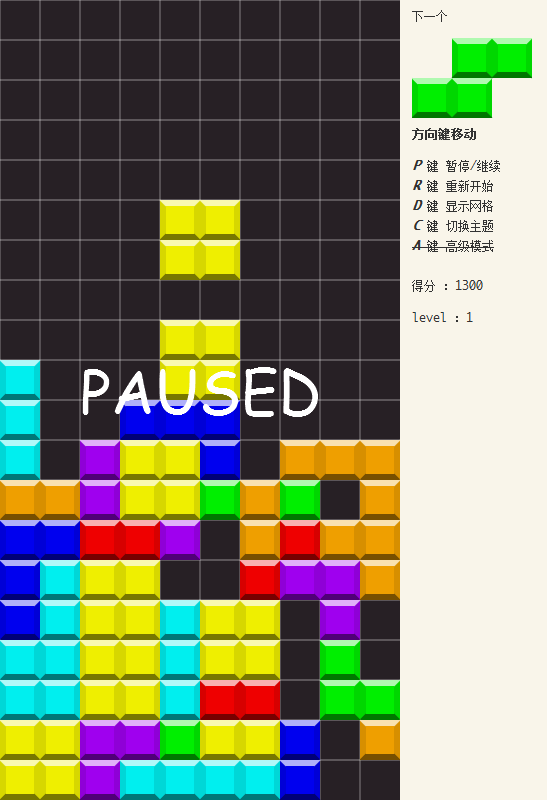
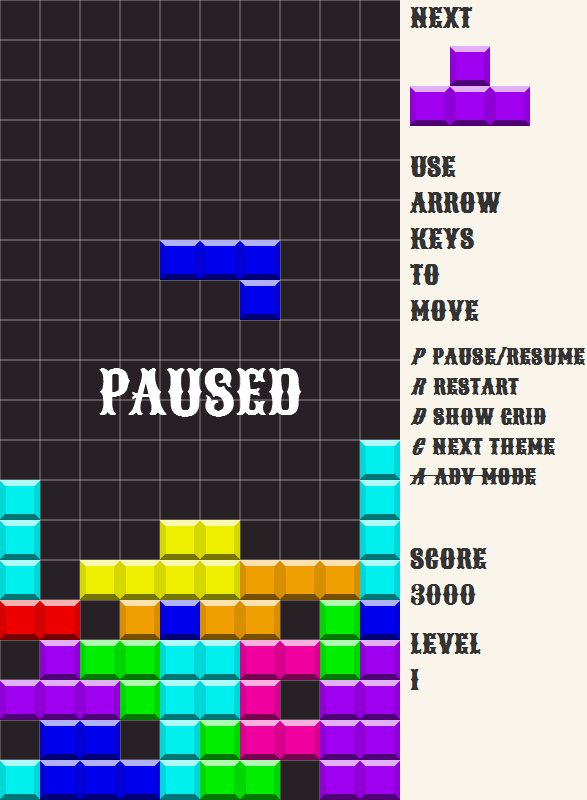
add webfont for fun

diff --git a/demo.html b/demo.html
@@ -3,14 +3,20 @@
 <head>
 	<meta charset="UTF-8">
 	<title>Canvas游戏- 俄罗斯方块 复刻版</title>
+	<link href="http://fonts.googleapis.com/css?family=Sancreek" rel="stylesheet" type="text/css">
 	<style type="text/css">
 		body{
 			background-color: #f9f5ea;
 		}
+		@font-face { 
+			font-family: DotMatrixBold; 
+			src: url('media/dotmbold-webfont.woff') format("woff"); 
+		} 
 
 		#snake-game-wrapper{
-			margin:0 1em 0;padding:0 1em 0;overflow:hidden;
+			margin:0 auto;padding:0 1em 0;overflow:hidden;
 			font: 62.5% Monaco,Consolas;background-color: #f9f5ea;
+			width:600px;
 		}
 			#snake-game{
 				background-color:transparent;
@@ -20,13 +26,22 @@
 			}
 
 			#snake-game-wrapper *{margin: 0;padding: 0;}
-			#snake-game-wrapper .panel{
-				float:left;margin:.5em 1em;width:150px;
-				font-size:1.2em;color:#333;				
+
+			#snake-game-wrapper .panel .preview{min-height:100px;position: relative;}
+			#snake-game-wrapper .panel .preview p{margin:0}
+			#snake-game-wrapper .panel .preview canvas{
+				margin:auto 0;position: absolute;top:0;bottom:0;				
 			}
-				#snake-game-wrapper .panel p{margin:0 0 1em;}
+
+			#snake-game-wrapper .panel{
+				float:left;margin:0 0 0 10px;width:170px;
+				font:bold 2.6em Sancreek, DotMatrixBold;color:#333;
+			}
+				#snake-game-wrapper .panel p{margin:.5em 0;}
+				#snake-game-wrapper .panel p:first-child{margin:0;}
 				#snake-game-wrapper .panel li{padding:0;list-style:none;}
-				#snake-game-wrapper .panel em{font-weight:bold;}
+				#snake-game-wrapper .panel em{font-weight:bold;margin-right:10px;}
+				#snake-game-wrapper .panel .keys{font-size:.8em;}
 
 			#snake-game-wrapper .canvas{position: relative;float:left;}
 				#snake-game-wrapper .canvas canvas{position: absolute;top:0;left:0;}
@@ -46,21 +61,21 @@
 	</section>
 
 	<section class="panel">
+		<p>NEXT</p>
 		<div class="preview">
-			<p>下一个</p>
 			<canvas id="snake-game-next" width="500" height="500"></canvas>
 		</div>
-		<p><strong>方向键移动</strong></p>
-		<ul>
-			<li><em>P</em> 键 暂停/继续</li>
-			<li><em>R</em> 键 重新开始</li>
-			<li><em>D</em> 键 显示网格</li>
-			<li><em>C</em> 键 切换主题</li>
-			<li><del><em>A</em> 键 高级模式</del></li>
+		<p><strong>USE<br>ARROW<br>KEYS<br>TO<br>MOVE</strong></p>
+		<ul class="keys">
+			<li><em>P</em>PAUSE/RESUME</li>
+			<li><em>R</em>RESTART</li>
+			<li><em>D</em>SHOW GRID </li>
+			<li><em>C</em>NEXT THEME</li>
+			<li><del><em>A</em>ADV MODE</del></li>
 		</ul>
 		<br>
-		<p>得分	：<span id="tetris-score">0</span></p>
-		<p>level	：<span id="tetris-level">0</span></p>
+		<p>SCORE<br><span id="tetris-score">0</span></p>
+		<p>LEVEL<br><span id="tetris-level">0</span></p>
 		<!-- <p>fps	：<span id="tetris-fps">0</span></p> -->
 		
 	</section>

diff --git a/js/tetris/tetris.js b/js/tetris/tetris.js
@@ -56,7 +56,10 @@ var rand_pos = function() {
 
 var gen_text = function(text) {
 	var txt = new GameText(stage.width/2,stage.height/2,text,unit*1.5);
-	txt.fontFamily = 'cursive, Comic Sans MS';
+	var panel = document.querySelector('#snake-game-wrapper .panel')
+	var fontFamily = document.defaultView.getComputedStyle(panel).getPropertyValue('font-family');
+	// 'cursive, Comic Sans MS';
+	txt.fontFamily = fontFamily;
 	return txt
 }
 

diff --git a/wiki/webfont.md b/wiki/webfont.md
@@ -1,0 +1,49 @@
+## 兼容性
+
+ie支持eot格式
+firefox、chrome支持ttf
+
+各浏览器都支持 **woff**，优点：
+
+> Cross-browser, web-only font format that uses gzip compression. IE9+, FF3.6+, Chrome 5+
+
+我使用的字体'Dot Matrix'来自：
+http://dionaea.com/information/fonts.php
+
+## 自己服务器
+
+需要预先定义 @font-face 选择器，并且可以任意命名字体：
+
+```
+@font-face { 
+	font-family: DotMatrixBold; 
+	src: url('media/dotmbold-webfont.woff') format("woff"); 
+} 
+```
+
+字体多格式转换工具，转换后有多种排版格式预览，极力推荐：
+[@FONT-FACE GENERATOR](http://www.fontsquirrel.com/fontface/generator)
+
+## google 服务器
+
+资源列表：
+http://www.google.com/webfonts
+
+只要加入 link 就可以了：
+
+```
+<link href='http://fonts.googleapis.com/css?family=Sancreek|The+Girl+Next+Door' rel='stylesheet' type='text/css'>
+```
+
+## MIME
+
+.eot	application/vnd.ms-fontobject
+.ttf	application/octet-stream
+.woff	application/x-font-woff
+
+## 有价值链接
+
+[Bulletproof @font-face syntax](http://paulirish.com/2009/bulletproof-font-face-implementation-syntax/)
+[Web fonts with @font-face](http://www.css3.info/preview/web-fonts-with-font-face/)
+[CSS @ Ten: The Next Big Thing](http://www.alistapart.com/articles/cssatten)
+[WOFF 使用指南](http://www.typeisbeautiful.com/2010/01/1903)
